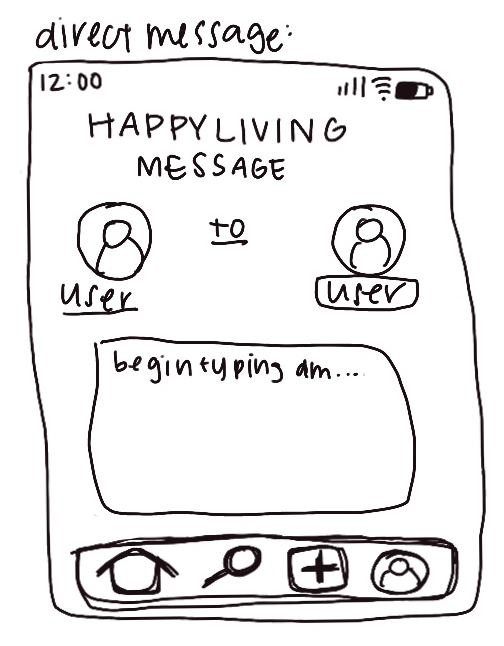
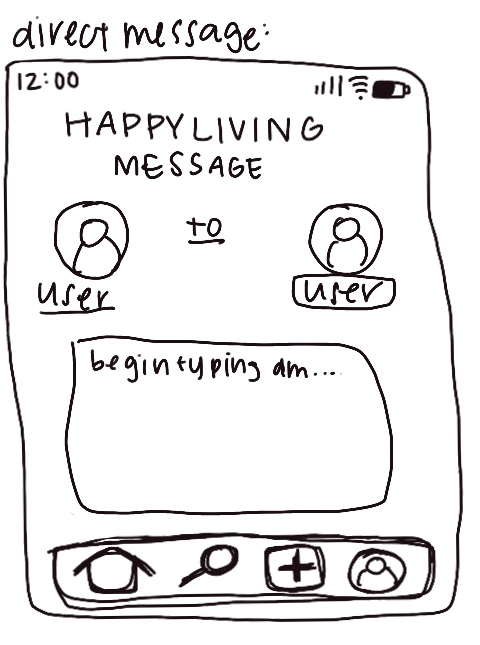
Add files via upload

diff --git a/css/style.css b/css/style.css
@@ -486,7 +486,7 @@ nav a:hover {
 }
 
 .dp1sketches-feed, .dp1sketches-search, .dp1sketches-message {
-    margin-left: -2px;
+    margin-left: -15px;
 }
 
 .dp1sketches-message, .dp1sketches-profile {
